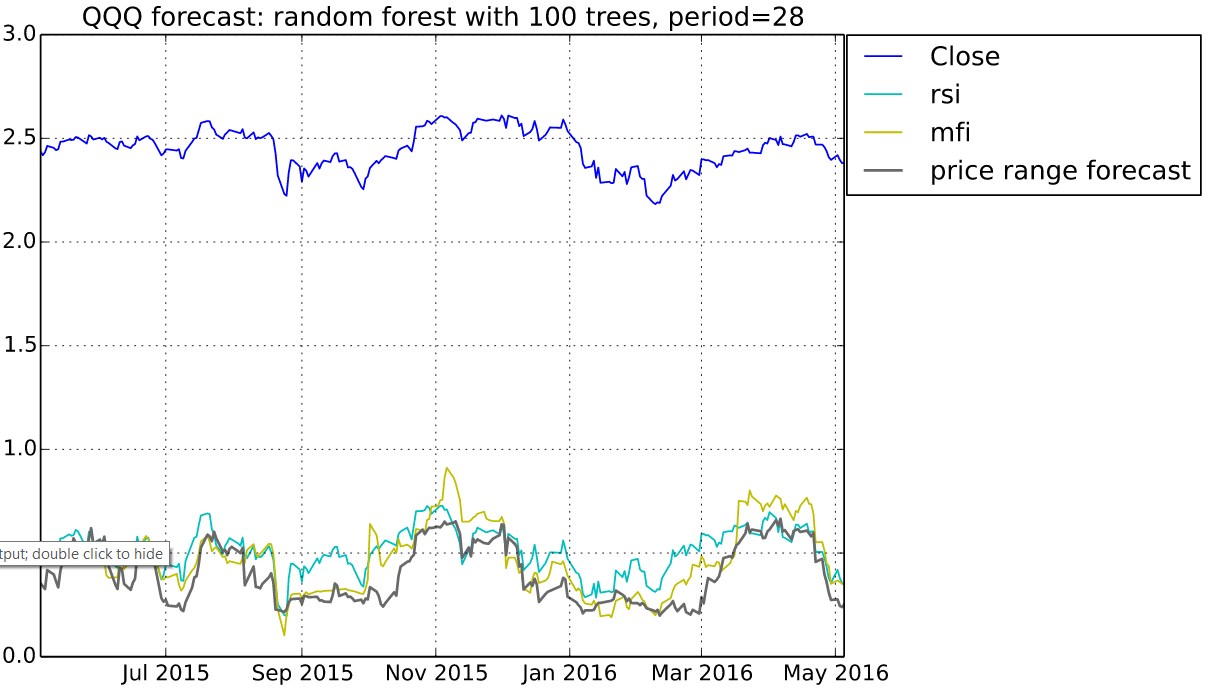
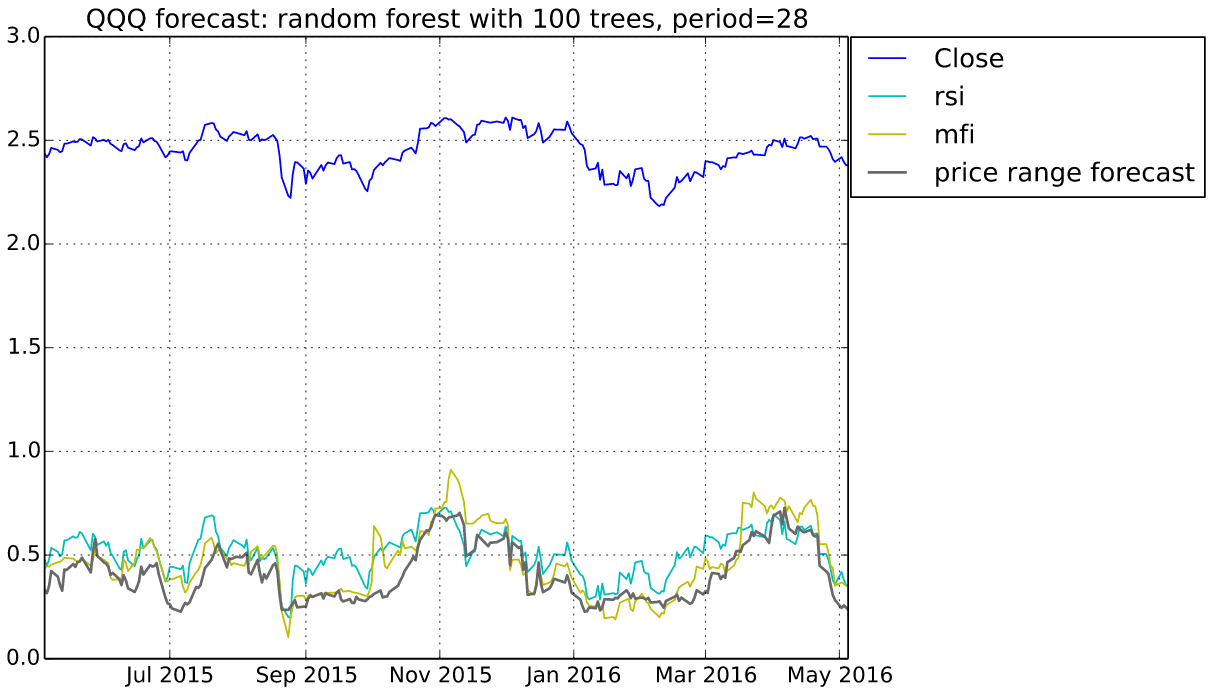
edit README.md and update images

diff --git a/README.md b/README.md
@@ -8,25 +8,32 @@
 
 ![Features used in training](qqq_features.png)
 
+## Model details
+
+Ensemble of Decision Trees  
+Trees:      100  
+Avg Leaves: 479.43  
+Avg Depth:  22.65  
+
 ## 3-fold cross validation on regression forest
 
 Fold 1  
-Mean Squared Error:     0.03301430596110305  
-Correlation Coeff:      0.8975811204169653  
-Coeff of Determination: 0.7126232338555871  
+Mean Squared Error:     0.03600321661200395  
+Correlation Coeff:      0.9073898246766314  
+Coeff of Determination: 0.708264521440887  
 
 Fold 2  
-Mean Squared Error:     0.03742714731444815  
-Correlation Coeff:      0.8961463767086401  
-Coeff of Determination: 0.6920364923193434  
+Mean Squared Error:     0.03518195921901468  
+Correlation Coeff:      0.8900908356566225  
+Coeff of Determination: 0.696364088606338  
 
 Fold 3  
-Mean Squared Error:     0.712623  
-Correlation Coeff:      0.692036  
-Coeff of Determination: 0.692959  
+Mean Squared Error:     0.708265  
+Correlation Coeff:      0.696364  
+Coeff of Determination: 0.695934  
 
-Mean Squared Error:     0.036378563092793775  
-Correlation Coeff:      0.8898550942759844  
-Coeff of Determination: 0.6929588511277167  
+Mean Squared Error:     0.035798219972087875  
+Correlation Coeff:      0.8974128265486412  
+Coeff of Determination: 0.6959336390884633  
 
-Mean Coeff of Determination: 0.6992061924342158
+Mean Coeff of Determination: 0.7001874163785627
